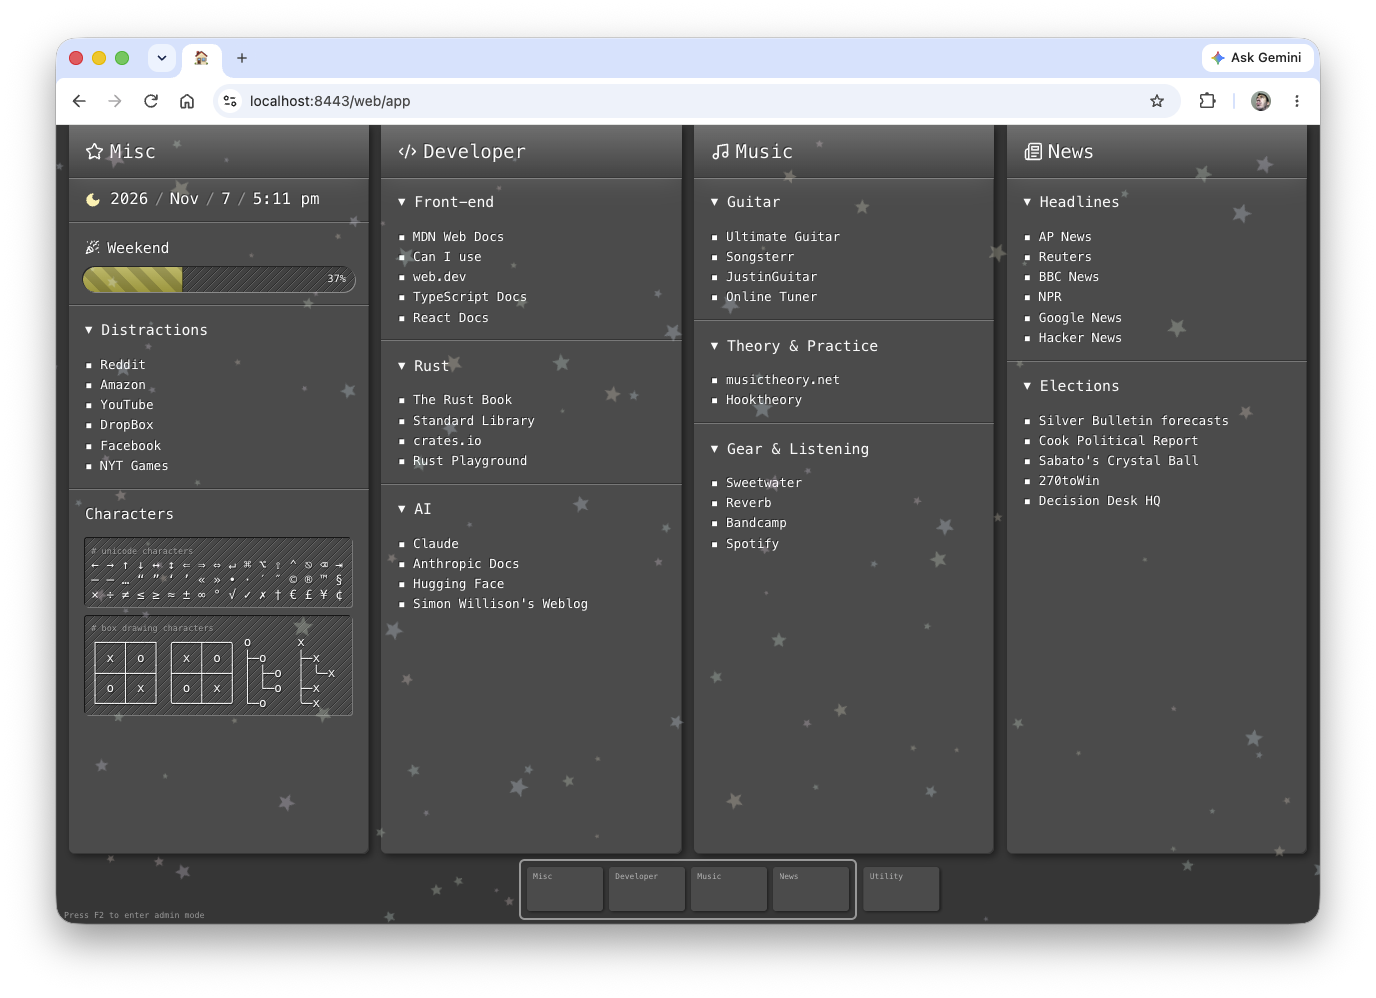
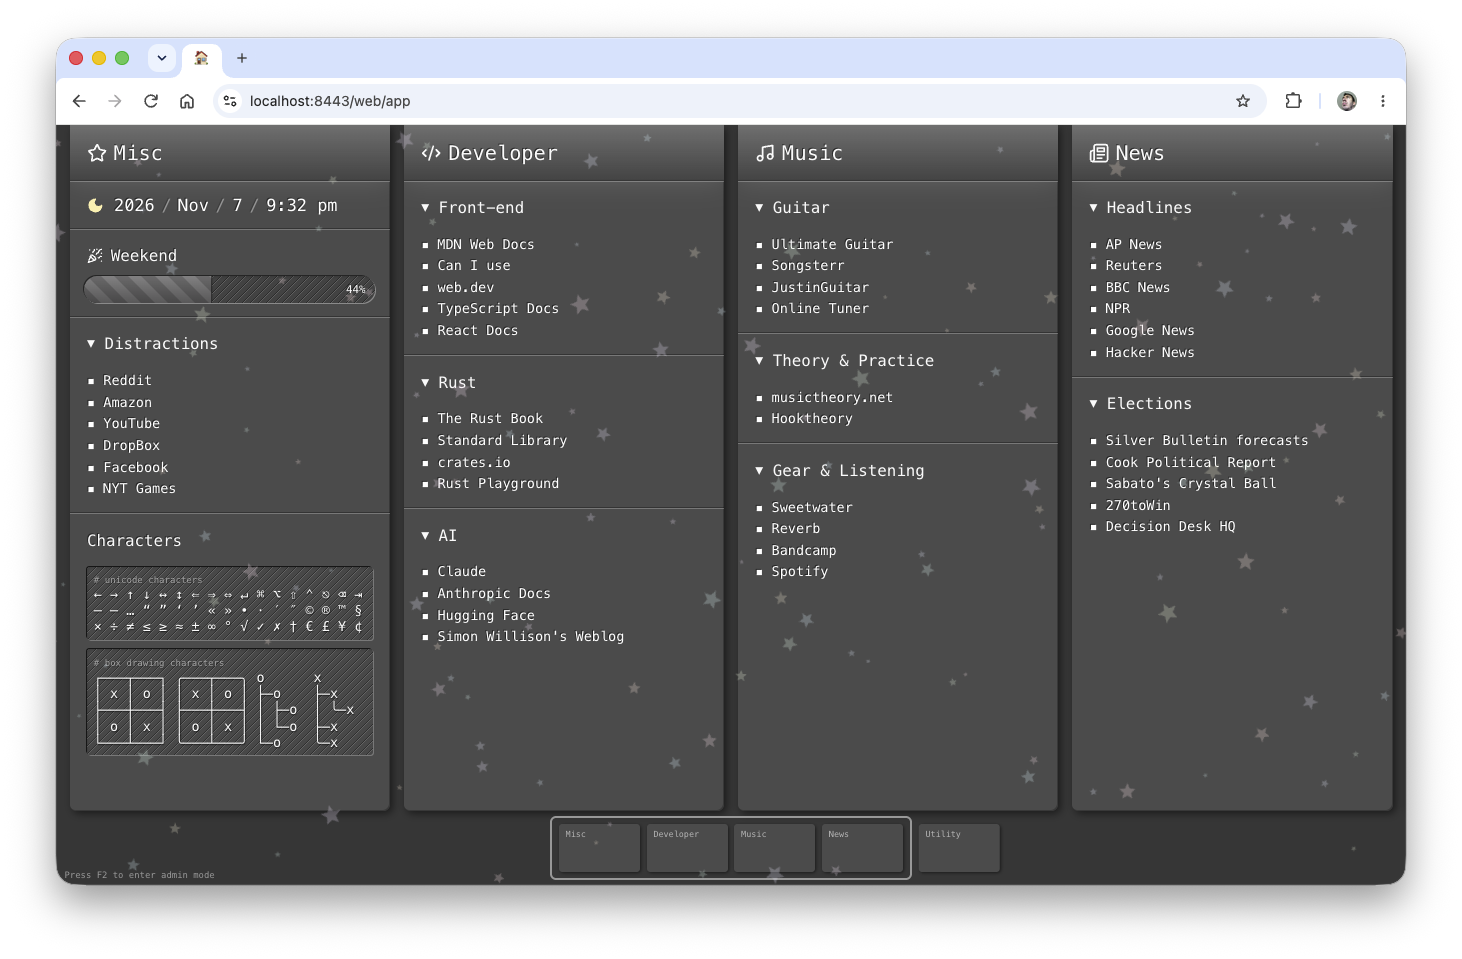
Readme updates

diff --git a/README.md b/README.md
@@ -26,15 +26,21 @@ It runs on your Mac, on localhost over HTTPS, and your layout never leaves your 
 
 ## Requirements
 
-| What                                                   | Why                                                                                                                                         | Get it                                                            |
-| ------------------------------------------------------ | ------------------------------------------------------------------------------------------------------------------------------------------- | ----------------------------------------------------------------- |
-| **macOS**                                              | The server runs as a launchd service, and its HTTPS certificate is trusted through the login keychain. There's no Linux or Windows support. | —                                                                 |
-| **[Deno](https://deno.com/) 2**                        | Runs everything. The server bundles the page at startup with Deno's built-in bundler, so older versions won't do. Known to work with 2.9.   | `brew install deno`, or `deno upgrade`                            |
-| **[Claude Code](https://code.claude.com/)**, signed in | The assistant runs Claude Code (bundled with the Agent SDK) and signs in with your Claude Code login.                                       | Install it, then run `claude` once to sign in                     |
-| **git**                                                | Getting the code, and for the assistant to commit when you ask it to.                                                                       | Comes with the Xcode command line tools: `xcode-select --install` |
-| **openssl** and **security**                           | Making and trusting the certificate.                                                                                                        | Built into macOS                                                  |
-| **A current browser**                                  | The page uses recent CSS (e.g. OKLCH colors). Current Chrome and Safari work.                                                               | —                                                                 |
-| **Ports 8443 and 9443** free                           | The server and the assistant service listen on them, on 127.0.0.1 only.                                                                     | —                                                                 |
+| What                                                   | Why                                                                                                                                                        | Get it                                                            |
+| ------------------------------------------------------ | ---------------------------------------------------------------------------------------------------------------------------------------------------------- | ----------------------------------------------------------------- |
+| **macOS**                                              | The server runs as a launchd service, and its HTTPS certificate is trusted through the login keychain. Linux and Windows aren't supported yet (see below). | —                                                                 |
+| **[Deno](https://deno.com/) 2**                        | Runs everything. The server bundles the page at startup with Deno's built-in bundler, so older versions won't do. Known to work with 2.9.                  | `brew install deno`, or `deno upgrade`                            |
+| **[Claude Code](https://code.claude.com/)**, signed in | The assistant runs Claude Code (bundled with the Agent SDK) and signs in with your Claude Code login.                                                      | Install it, then run `claude` once to sign in                     |
+| **git**                                                | Getting the code, and for the assistant to commit when you ask it to.                                                                                      | Comes with the Xcode command line tools: `xcode-select --install` |
+| **openssl** and **security**                           | Making and trusting the certificate.                                                                                                                       | Built into macOS                                                  |
+| **A current browser**                                  | The page uses recent CSS (e.g. OKLCH colors). Current Chrome and Safari work.                                                                              | —                                                                 |
+| **Ports 8443 and 9443** free                           | The server and the assistant service listen on them, on 127.0.0.1 only.                                                                                    | —                                                                 |
+
+**Linux and Windows** aren't supported yet, only because I don't run them, not because they're
+unwelcome. The macOS-specific parts are running the services (launchd) and trusting the certificate
+(the login keychain): the service and certificate scripts in `bin/` and `tooling/`, plus the
+assistant service restarting the server (`src/server/assistant-live.ts`). If you'd like it on your
+OS, pull requests are welcome.
 
 ## Setup
 
